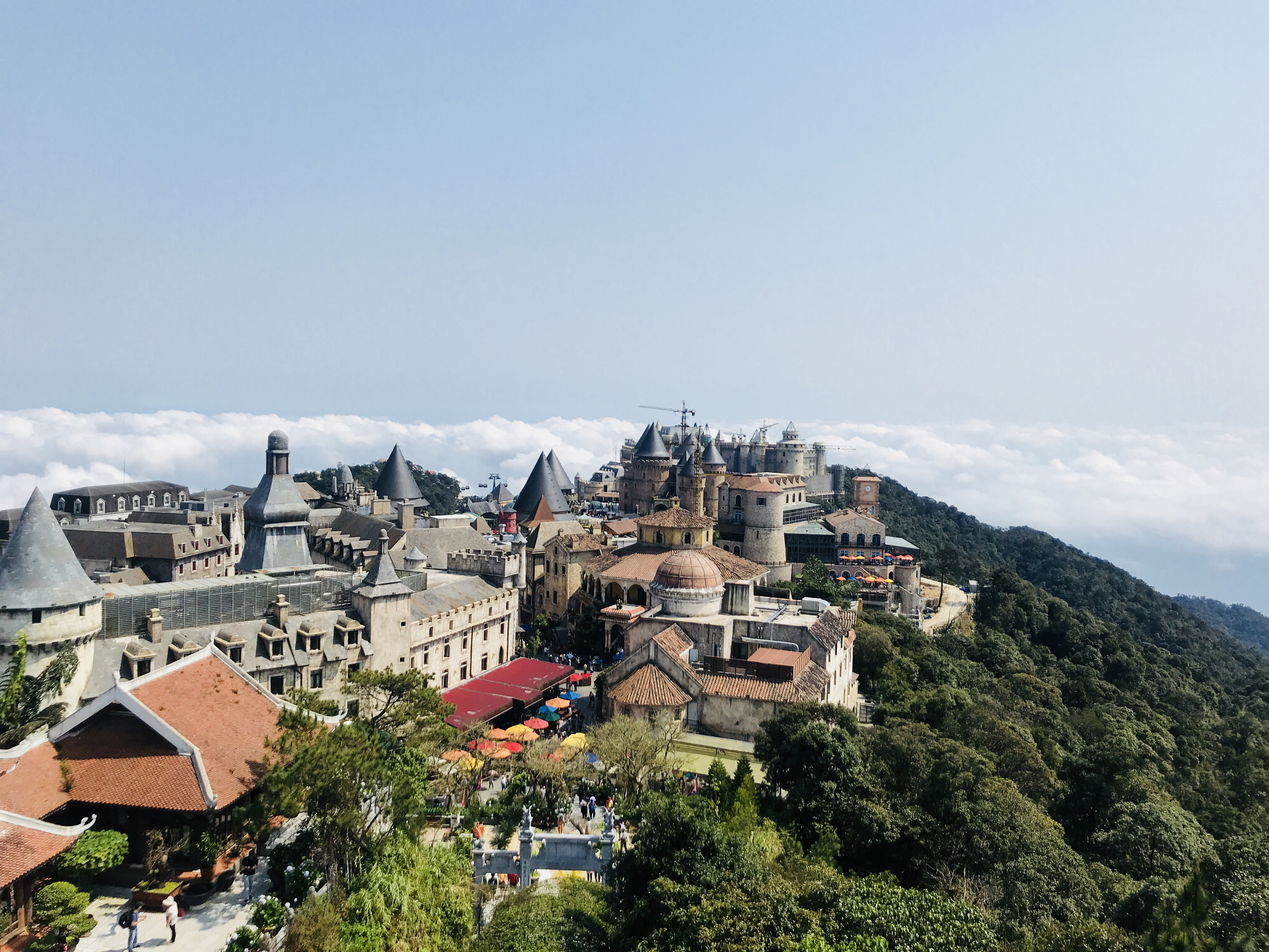
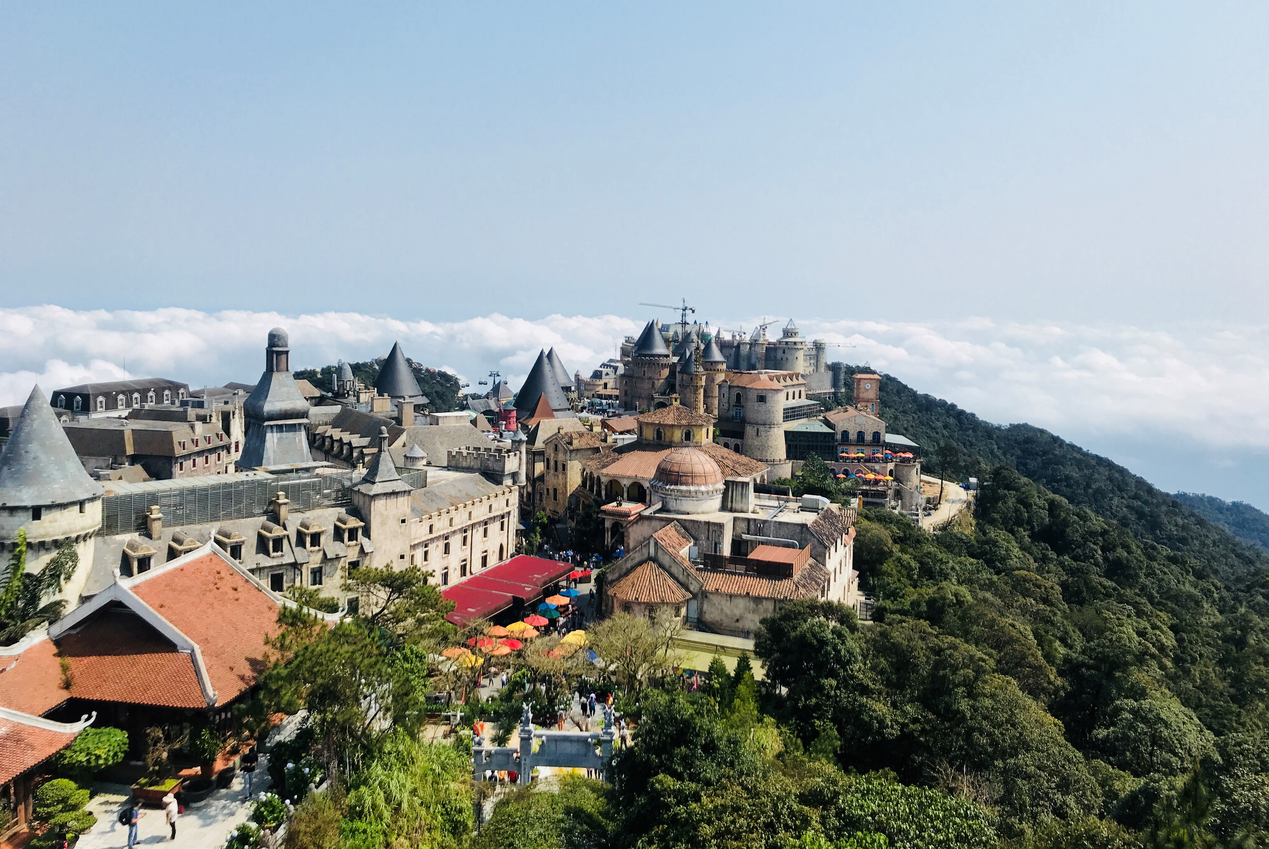
Third commit

diff --git a/css/style.css b/css/style.css
@@ -1,20 +1,12 @@
 body {
-    height: 100vh;
-    width: 100%;
+    height: 100%;
+    width: 500px;
     margin: 0;
     padding: 0;
     color: rgb(255, 255, 255);
     font-family: 'bod';
     font-size: 16pt;
-}
-#flex {
-    height: 100%;
-    width: 100%;
-    display: flex;
-    justify-content: space-between;
-    flex-direction: column;
-    margin: 0;
-    padding: 0;
+    overflow: hidden;
 }
 .hidden {
     display: none;
@@ -24,7 +16,18 @@ body {
     left: 0;
     right: 0;
     width: 100%;
+    height: 100%;
+    object-fit: cover;
     z-index: -1;
+}
+#flex {
+    height: 100%;
+    width: 100%;
+    display: flex;
+    justify-content: space-between;
+    flex-direction: column;
+    margin: 0;
+    padding: 0;
 }
 header {
     position: fixed;
